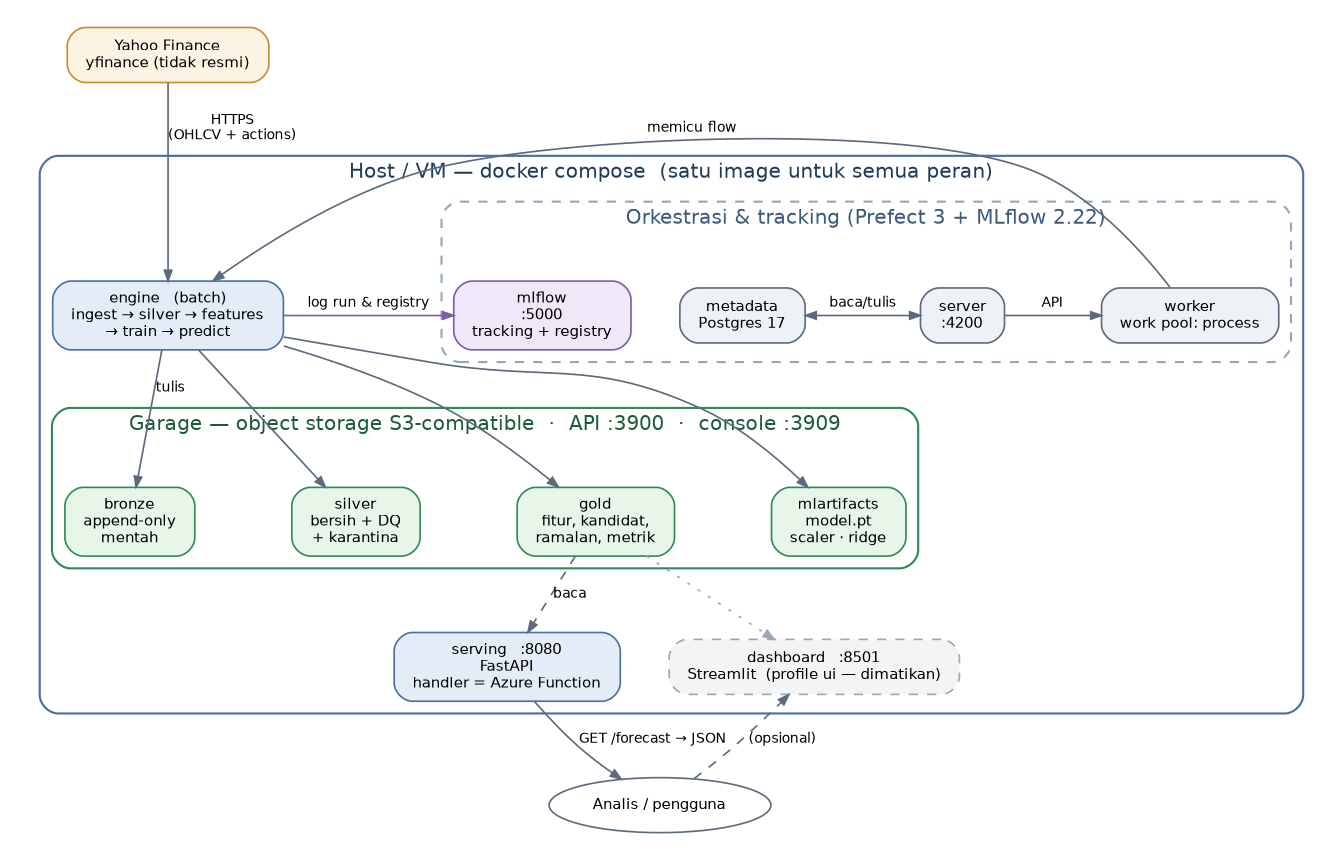
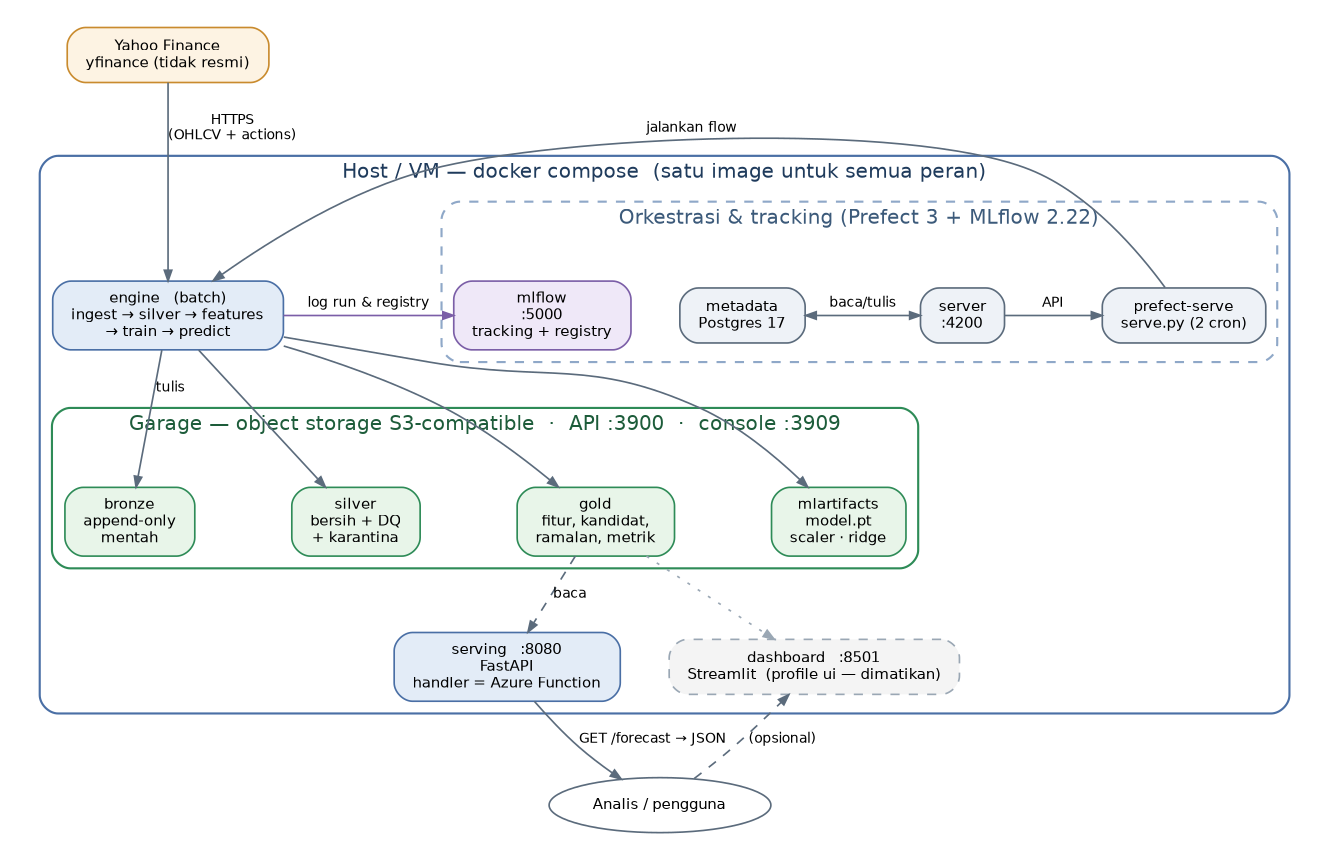
fix(docker): add boto3 client for mlflow s3 artifacts and sync local stack

diff --git a/ihsg/tracking.py b/ihsg/tracking.py
@@ -124,7 +124,7 @@ def log_training_run(
                 )
                 model_version = int(registered.version)
                 MlflowClient().set_registered_model_alias(
-                    REGISTERED_MODEL_NAME, CHAMPION_ALIAS, model_version
+                    REGISTERED_MODEL_NAME, CHAMPION_ALIAS, str(model_version)
                 )
 
             return {
